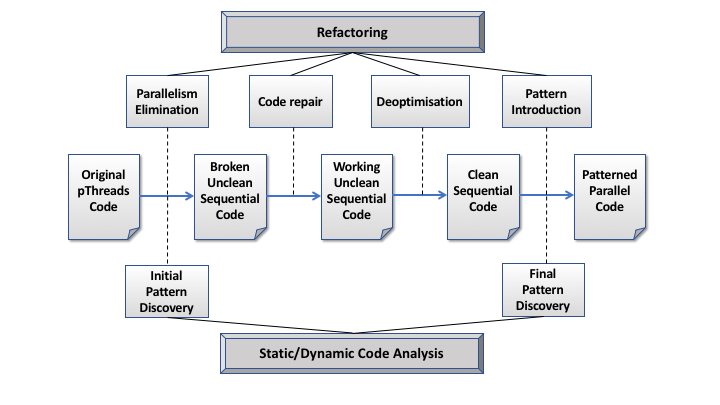
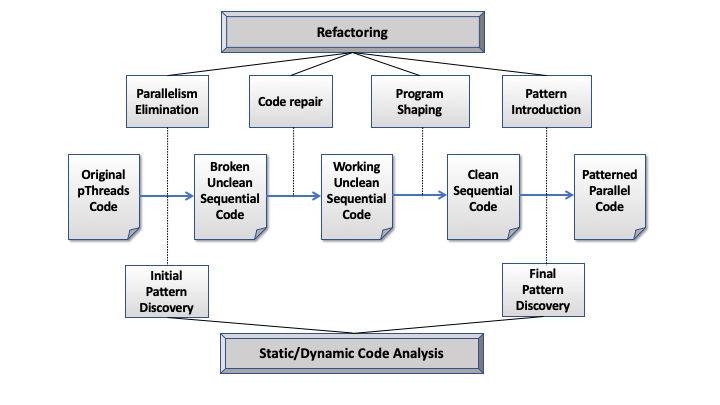
minor change

diff --git a/main-body.tex b/main-body.tex
@@ -1,4 +1,4 @@
-%\section{To-Do List}
+`%\section{To-Do List}
 %
 %\begin{itemize}
 %\item General: Rewrite the paper to focus less on methodology and more on transformations and refactoring
@@ -1647,132 +1647,222 @@ blurring, smoothing and edge detection. We consider an instance of the image con
 \end{equation}
 
 \begin{lstlisting}[label=convo1, caption={Original Convolution with PThreads}, frame=single]
-T puttask(T tq, T v) {
-	int a, r;
-	do {
-		my_lock_t_task_t(tq);
-		if (tq->addat == tq->removeat-1) 
-			my_unlock_t_task_t(tq);
-	} while (tq->addat == tq->removeat-1);
-
-	...
-	my_unlock_t_task_t(tq);
-	...
+void puttask(queue_t *queue, task_t elem)
+{
+  pthread_mutex_lock(&queue->queue_lock);
+  /* If the queue is full, wait until something reads from it before adding a new element */
+  if (queue->nr_elements == queue->capacity) {
+    pthread_cond_wait(&queue->queue_cond_read,&queue->queue_lock);
+  }
+  queue->elements[queue->addTo] = elem;
+  queue->addTo = (queue->addTo + 1) % queue->capacity;
+  queue->nr_elements++;
+  pthread_cond_signal(&queue->queue_cond_write);
+  pthread_mutex_unlock(&queue->queue_lock);
+}
+  
+task_t gettask(queue_t *queue)
+{
+  ...
 }
 
-T gettask(T *tq) {
-	char* t;
-	do {
-		my_lock_char(tq);
-		if (tq->removeat == tq->addat) {
-			my_unlock_char(tq);
-			...
-		}
-	}  while (tq->removeat == tq->addat);
-    ...
-	my_unlock_char(tq);
-	...
-	return(t);
-}
-
-void stage1() {
-	..
-	while(1) {
+void* stage1() {
+  ..
+  while(1) {
 		t = gettask(tq1);
 		r = workerStage1(t);
 		puttask(tq2, r);
-	}
+  }
+  return NULL;
 }
 
-void stage2() {
-	..
-	while(1) {
+void* stage2() {
+  ..
+  while(1) {
 		t = gettask(tq2);
 		r = workerStage2(t);
 		puttask(tq3, r);
-	}
+  }
+  return NULL;
 }
 
-void createpipefarm(void (*Worker1)(), void (*Worker2)(), int n1, int n2) {
-	for (long i=0; i< n1; i++) 
-		pthread_create(pt, NULL, (void *(*)(void *))Worker1, (void *)t);
+int main (int argc, char **argv)
+{
+  int nw1 = atoi(argv[1]), nw2 = atoi(argv[2]);
+  pthread_t workers1[nw1], workers2[nw2];
+  queue_t tq1, tq2;
+  ... 
+  /* Reading in the images in the task queue tq1 */
+  ...
+  /* Create the pipeline */
+  for (int i=0; i<nw1; i++)
+    pthread_create(&workers1[i], NULL, stage1, NULL);
+  for (int i=0; i<nw2; i++)
+    pthread_create(&workers2[i], NULL, stage2, NULL);
 
-	for (long i=0; i<n2; i++)
-		pthread_create(pt, NULL, (void *(*)(void *))Worker2, (void *)t);
+  . . .
+  /* Wait for threads to finish execution and output results to files */    
+
 }
-...
-for (int i=0; i<NIMGS; i++) {
-	images[i] = (char *) malloc (sizeof(char)*1000);
-	copyImage(images[i]);
-	puttask(tq1, images[i]);
-}
-createpipefarm(stage1, stage2, nworkers1, nworkers2);
-for (int i=0; i<NIMGS; i++) {
-	gettask(tq3);
-}
+
 \end{lstlisting}
 
-For the convolution example, we start off with a pthreaded version in Listing~\ref{convo1}. The structure of this example follows similar to the other pipelined examples in this paper, and outlined in Section~\ref{sec:methodology}. The example first sets up a queue of input tasks, at Lines 67-71, placing images onto a task queue, \lstinline{tq1}; \lstinline{createpipefarm} is then called, which is defined on Line 59, setting up the various threads for the workers that will be come the pipeline stages; finally, Lines 74-76 show the results from the pipeline being retrieved from an output queue, \lstinline{tq3}. The pipeline stages are shown at Line 36 and 45, respectively; each stage has a similar structure: a non-terminating \lstinline{while} loop that retrieves a task from the stage's respecting input queue (\lstinline{tq1} for \lstinline{stage1}, and \lstinline{tq2} for \lstinline{stage2}), computes the unit of work on the task item (Lines 40 and 49) and then places the result on an output queue (Lines 41 and 50). Each \lstinline{puttask} and \lstinline{gettask} function (here simplified over an abstract type \lstinline{T} for brevity) uses pthread locking and unlocking mechanisms for thread safety, together with other functionality for queue housekeeping: tracking positions of item retrieval, and so on. 
+%\begin{lstlisting}[label=convo1, caption={Original Convolution with PThreads}, frame=single]
+%T puttask(T tq, T v) {
+%	int a, r;
+%	do {
+%		my_lock_t_task_t(tq);
+%		if (tq->addat == tq->removeat-1) 
+%			my_unlock_t_task_t(tq);
+%	} while (tq->addat == tq->removeat-1);
+%
+%	...
+%	my_unlock_t_task_t(tq);
+%	...
+%}
+
+%T gettask(T *tq) {
+%	char* t;
+%	do {
+%		my_lock_char(tq);
+%		if (tq->removeat == tq->addat) {
+%			my_unlock_char(tq);
+%			...
+%		}
+%	}  while (tq->removeat == tq->addat);
+%   ...
+%	my_unlock_char(tq);
+%	...
+%	return(t);
+%}
+
+%void stage1() {
+%	..
+%	while(1) {
+%		t = gettask(tq1);
+%		r = workerStage1(t);
+%		puttask(tq2, r);
+%	}
+%}
+
+%void stage2() {
+%	..
+%	while(1) {
+%		t = gettask(tq2);
+%		r = workerStage2(t);
+%		puttask(tq3, r);
+%	}
+%}
+
+%void createpipefarm(void (*Worker1)(), void (*Worker2)(), int n1, int n2) {
+%	for (long i=0; i< n1; i++) 
+%		pthread_create(pt, NULL, (void *(*)(void *))Worker1, (void *)t);
+%
+%	for (long i=0; i<n2; i++)
+%		pthread_create(pt, NULL, (void *(*)(void *))Worker2, (void *)t);
+%}
+%...
+%for (int i=0; i<NIMGS; i++) {
+%	images[i] = (char *) malloc (sizeof(char)*1000);
+%	copyImage(images[i]);
+%	puttask(tq1, images[i]);
+%}
+%createpipefarm(stage1, stage2, nworkers1, nworkers2);
+%for (int i=0; i<NIMGS; i++) {
+%	gettask(tq3);
+%}
+%\end{lstlisting}
+
+%For the convolution example, we start off with a pthreaded version in Listing~\ref{convo1}. The structure of this example follows similar to the other pipelined examples in this paper, and outlined in Section~\ref{sec:methodology}. The example first sets up a queue of input tasks, at Lines 67-71, placing images onto a task queue, \lstinline{tq1}; \lstinline{createpipefarm} is then called, which is defined on Line 59, setting up the various threads for the workers that will be come the pipeline stages; finally, Lines 74-76 show the results from the pipeline being retrieved from an output queue, \lstinline{tq3}. The pipeline stages are shown at Line 36 and 45, respectively; each stage has a similar structure: a non-terminating \lstinline{while} loop that retrieves a task from the stage's respecting input queue (\lstinline{tq1} for \lstinline{stage1}, and \lstinline{tq2} for \lstinline{stage2}), computes the unit of work on the task item (Lines 40 and 49) and then places the result on an output queue (Lines 41 and 50). Each \lstinline{puttask} and \lstinline{gettask} function (here simplified over an abstract type \lstinline{T} for brevity) uses pthread locking and unlocking mechanisms for thread safety, together with other functionality for queue housekeeping: tracking positions of item retrieval, and so on. 
+
+For the convolution example, we start off with a pthreaded version in Listing~\ref{convo1}. The structure of this example follows similar to the other pipelined examples in this paper, and outlined in Section~\ref{sec:methodology}. After setting up the task queue for the first stage of the pipeline (e.g.~by reading a sequence of images from the disk), the example creates the pipeline in lines 49--52, spawning a number of worker threads for each stage of the pipeline. The pipeline stages are shown at lines 20 and 30, respectively; each stage has a similar structure: a non-terminating \lstinline{while} loop that retrieves a task from the stage's input queue (\lstinline{tq1} and \lstinline{tq2} for \lstinline{stage1} and \lstinline{stage2}, respectivelly), computes the unit of work on the task item (lines 24 and 34) and then places the result on an output queue (Lines 25 and 35). Each \lstinline{puttask} and \lstinline{gettask} function uses pthread locking and conditional variables for thread safety, together with other functionality for queue housekeeping: tracking positions of item retrieval, and so on. The code for \lstinline{puttask} is shown in lines 1-13.
+
+The \emph{first step} to restoration is to remove the threading code; this is a fairly straightforward process, but results in an executable that no-longer terminates. This is due to the fact that there is no termination condition of the \lstinline{while} loops within the stages. A simple repair for this step is to add a termination token,\lstinline{EOS}, which threads through the pipeline computation when no more tasks are on the original input queue; when a stage pulls this token off the input queue, the stage terminates (Listing~\ref{convo1}). 
 
 \begin{lstlisting}[label=convo1, caption={Convolution, Repaired with a Termination Token},frame=single]
-if ((int)(task_t)t == EOS) {
-	puttask(tq2, (task_t2 *)EOS);
-	break;
-}
-\end{lstlisting}
+  if ((int)(task_t)t == EOS) {
+    puttask(tq2, (task_t2 *)EOS);
+    break;
+  }
+  \end{lstlisting}
 
-The \emph{first step} to restoration is to first remove the pthreading code; this is a fairly straightforward process, but results in an executable that no-longer terminates. This is due to the fact that there is no termination condition of the \lstinline{while} loops within the stages. A simple repair for this step is to add a termination token,\lstinline{EOS}, which threads through the pipeline computation when no more tasks are on the original input queue; when a stage pulls this token off the input queue, the stage terminates. An example of adding this termination token is shown in Listing~\ref{convo1}.
-
-\begin{lstlisting}[label=convo2, caption={Stages merged, unfolded and intermediate queue removed},frame=single]
-do {
-	char old_value ;
-	char new_value = 1 ;
-	lock_char++;        
-	if (tq1->removeat == tq1->addat) {
-		tq1->lock = 0 ;
-		unlock_char++;
-	}
-}  while (tq1->removeat == tq1->addat);
-t1 = tq1->ts[tq1->removeat];
-if (++tq1->removeat == MAX_TASKS)
-	tq1->removeat = 0;
-tq1->lock = 0 ;
-unlock_char++;
-r1 = workerStage1(t1);
-r2 = workerStage2(r1);
-puttask(tq3, r2);
-\end{lstlisting}
+%\begin{lstlisting}[label=convo2, caption={Stages merged, unfolded and intermediate queue removed},frame=single]
+%do {
+%	char old_value ;
+%	char new_value = 1 ;
+%	lock_char++;        
+%	if (tq1->removeat == tq1->addat) {
+%		tq1->lock = 0 ;
+%		unlock_char++;
+%	}
+%}  while (tq1->removeat == tq1->addat);
+%t1 = tq1->ts[tq1->removeat];
+%if (++tq1->removeat == MAX_TASKS)
+%	tq1->removeat = 0;
+%tq1->lock = 0 ;
+%unlock_char++;
+%r1 = workerStage1(t1);
+%r2 = workerStage2(r1);
+%puttask(tq3, r2);
+%\end{lstlisting}
 
 The next step is to perform \emph{program shaping} which goes through various steps, including \emph{unfolding} the various calls to \lstinline{gettask} and \lstinline{puttask} in the stages, \emph{merging} the stages together, and finally \emph{removing} the intermediate queue between the two stages (leaving the input and out queue). The result is shown in Listing~\ref{convo2}.
 
-\begin{lstlisting}[label=convo3,caption={Convolution Shaped},frame=single]
-for (int i=0; i<NIMGS; i++) {
-	workerStage3(workerStage2(workerStage1(i)));
-}
+\begin{lstlisting}[label=convo2, caption={Stages merged, unfolded and intermediate queue removed},frame=single]
+  /* Unfolded gettask function, reutrning t1 as an input task to stage 1 */
+  . . .
+  r1 = workerStage1(t1);
+  r2 = workerStage2(r1);
+  /* Unfolded puttask function that puts r2 into queue tq2 */
+  tq2->elements[tq2->addTo] = r2;
+  tq2->addTo = (tq2->addTo + 1) % tq2->capacity;
+  tq2->nr_elements ++
 \end{lstlisting}
 
 The final step in the shaping process is to arrive at the code shown in Listing~\ref{convo3}, where we remove the input and output queues completely, and transform the program into a simple function composition; the function composition has been \emph{unfolded} into the original \lstinline{for} loop (Line 67 from Listing~\ref{convo1}), and the loops merged into a single loop. 
 
+%\begin{lstlisting}[label=convo3,caption={Convolution Shaped},frame=single]
+%for (int i=0; i<NIMGS; i++) {
+%	workerStage3(workerStage2(workerStage1(i)));
+%}
+%\end{lstlisting}
 
-\begin{lstlisting}[label=convo4, caption={Convolution Restored with TBB},frame=single]
-...
-void RunPipeline(int ntoken, int NIMGS) {
-	tbb::parallel_pipeline(
-		ntoken,
-		tbb::make_filter<void,task_t2*>(
-			tbb::filter::serial, Stage1(NIMGS) )
-		&
-		tbb::make_filter<task_t2*,int>(
-			tbb::filter::parallel, Stage2() )
-		&
-		tbb::make_filter<int,void>(
-			tbb::filter::serial_in_order, Stage3() ));
+\begin{lstlisting}[label=convo3,caption={Convolution Shaped},frame=single]
+for (int i=0; i<NIMGS; i++) {
+	workerStage2(workerStage1(i));
 }
-...
-RunPipeline(NIMGS, NIMGS);
 \end{lstlisting}
 
 Finally, the fully shaped program from Listing~\ref{convo3} can be parallelised using a structured pattern approach. Here we use TBB, to define a pipeline, using C++ classes, as shown in Listing~\ref{convo4}.
+
+%\begin{lstlisting}[label=convo4, caption={Convolution Restored with TBB},frame=single]
+%...
+%void RunPipeline(int ntoken, int NIMGS) {
+%	tbb::parallel_pipeline(
+%		ntoken,
+%		tbb::make_filter<void,task_t2*>(
+%			tbb::filter::serial, Stage1(NIMGS) )
+%		&
+%		tbb::make_filter<task_t2*,int>(
+%			tbb::filter::parallel, Stage2() )
+%		&
+%		tbb::make_filter<int,void>(
+%			tbb::filter::serial_in_order, Stage3() ));
+%}
+%...
+%RunPipeline(NIMGS, NIMGS);
+%\end{lstlisting}
+
+\begin{lstlisting}[label=convo4, caption={Convolution Restored with TBB},frame=single]
+tbb::parallel_pipeline(
+	ntoken,
+	tbb::make_filter<void,task_t2*>(
+		tbb::filter::serial, Stage1(NIMGS) )
+	&
+	tbb::make_filter<task_t2*,int>(
+		tbb::filter::parallel, Stage2() )
+}
+\end{lstlisting}
 
 \begin{table}
 	\begin{tabular}{|c|c|c|}
